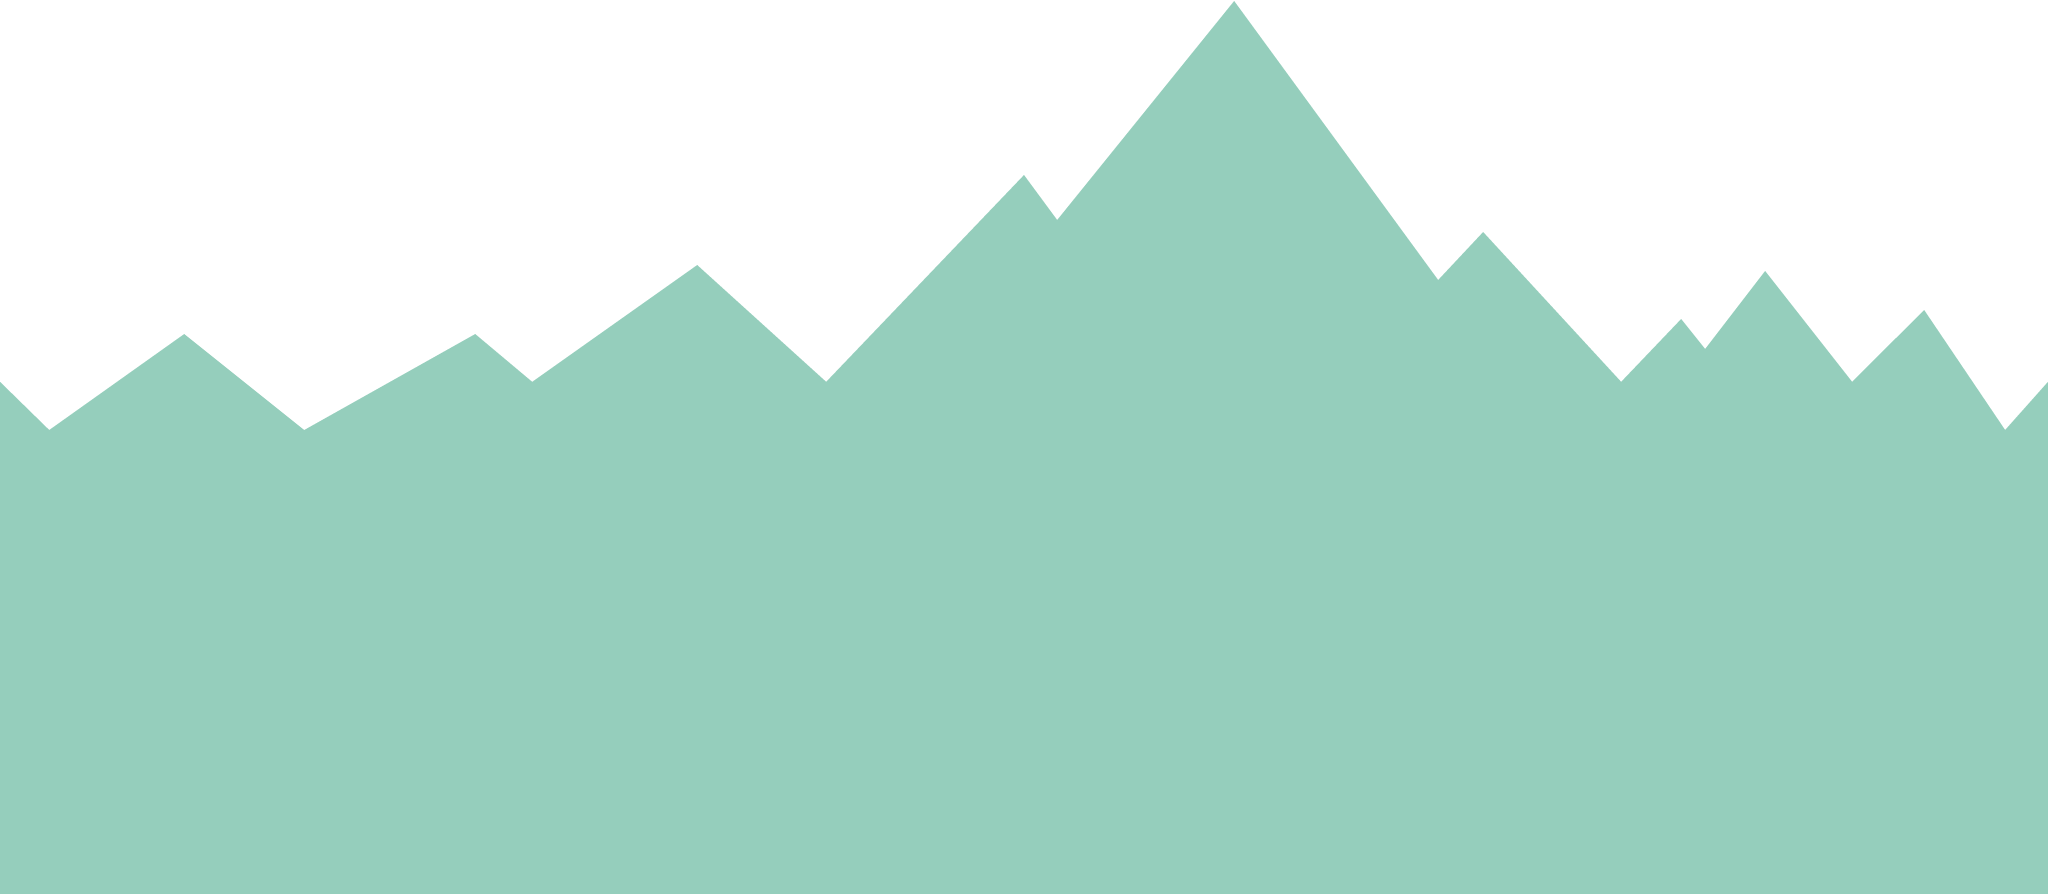
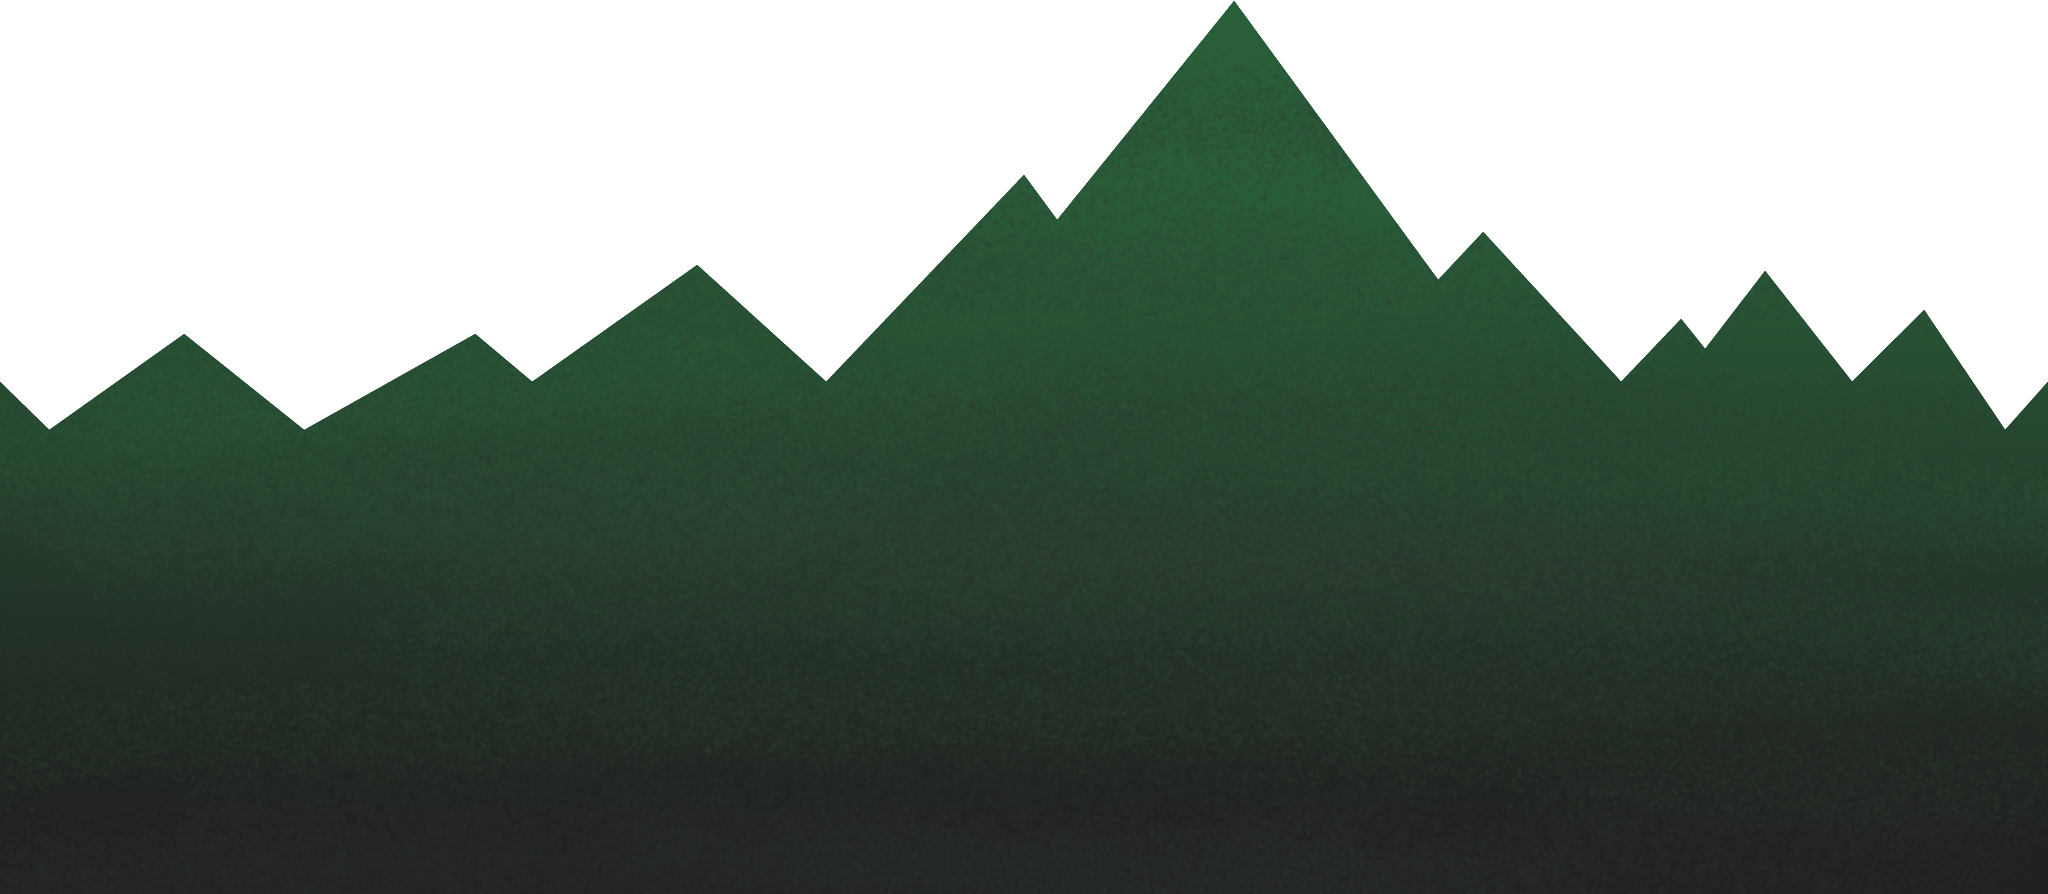
[feat] level complete

diff --git a/src/index.js b/src/index.js
@@ -36,17 +36,25 @@ export const gameContent = {
 let ost;
 let gameOverSound;
 let isGameOverSound = false;
+let isReady = false;
 
 function preload() {
   gameContent.scene = this;
   const { scene, cursor } = gameContent;
 
+  scene.load.image('sky', 'assets/images/sky.jpg');
   scene.load.image('mountains-back', 'assets/images/mountains-back.png');
 	scene.load.image('mountains-mid1', 'assets/images/mountains-mid1.png');
   scene.load.image('mountains-mid2', 'assets/images/mountains-mid2.png');
     
   scene.load.image('tiles', '../assets/images/tilesheet.png');
   scene.load.image('items', '../assets/images/items.png');
+  scene.load.image('emerald', '../assets/images/emerald.png');
+
+  scene.load.image('start', '../assets/images/start.png');
+  scene.load.image('dead', '../assets/images/dead.png');
+  scene.load.image('win', '../assets/images/win.png');
+
   scene.load.image('parchment', '../assets/images/parchment.png');
   scene.load.image('restart', '../assets/images/restart.png');
 
@@ -69,18 +77,19 @@ function preload() {
   world.score = 0;
   isGameOverSound = false;
   gameOverSound = null;
+  isReady = false;
 }
 
 function create() {
   const { scene, player, enemy, world } = gameContent;
 
   world.initMap(scene);
-
-  ost = this.sound.add('OST');
-  ost.play({
-    loop: true,
-    volume: 0.4  
-  });
+  
+  // ost = this.sound.add('OST');
+  // ost.play({
+  //   loop: true,
+  //   volume: 0.4  
+  // });
 
   function randomIntFromInterval(min, max) {  
     return Math.floor(Math.random() * (max - min + 1) + min);
@@ -106,32 +115,37 @@ function create() {
   gameContent.cursor = scene.input.keyboard.createCursorKeys();
 
   world.handleCamera(scene, player);
+
+  startPanel();
 }
 
 function update(time, delta) {
-  const { player, cursor } = gameContent;
+  const { player, cursor, world } = gameContent;
 
-  if(world.gameOver) {
-    ost.stop();
-
-    if(player.isAHero && !isGameOverSound) {
-      gameOverSound = this.sound.add('win');
-      gameOverSound.play({
-        volume: 0.4  
-      });
-      isGameOverSound = true;
+  if(isReady) {
+    if(world.gameOver) {
+      ost.stop();
+  
+      if(player.isAHero && !isGameOverSound) {
+        gameOverSound = this.sound.add('win');
+        gameOverSound.play({
+          volume: 0.4  
+        });
+        isGameOverSound = true;
+      }
+  
+      if(!player.isAlive && !isGameOverSound) {
+        gameOverSound = this.sound.add('death');
+        gameOverSound.play({
+          volume: 0.4  
+        });
+        isGameOverSound = true;
+      }
     }
-
-    if(!player.isAlive && !isGameOverSound) {
-      gameOverSound = this.sound.add('death');
-      gameOverSound.play({
-        volume: 0.4  
-      });
-      isGameOverSound = true;
-    }
+  
+    player.moveHero(cursor);
   }
 
-  player.moveHero(cursor);
   handleScreenSize();
 }
 
@@ -150,5 +164,37 @@ function handleScreenSize() {
   } else {
     canvas.style.width = `${winHeight * gameRatio}px`;
     canvas.style.height = `${winHeight}px`;
+  }
+};
+
+function startPanel() {
+  const { midPoint } = gameContent.scene.cameras.main;
+
+  if(!isReady) {
+    let startSprite = gameContent.scene.add.sprite(
+      0,
+      40,
+      "start"
+      ).setOrigin(0, 0);
+
+    let container = gameContent.scene.add.container(50, 50);;
+    container.setPosition(midPoint.x + 450, midPoint.y + 190);
+    const restartButton = gameContent.scene.add.image(0, 0, "restart").setScale(0.12, 0.12).setInteractive({ cursor: 'pointer' });
+    var text = gameContent.scene.add.text(0, 0, 'Start');
+    text.setOrigin(0.5, 0.5);
+    container.add(restartButton);
+    container.add(text);
+
+    restartButton.on("pointerup", function(){
+      startSprite.destroy();
+      container.destroy();
+      isReady = true;
+
+      ost = gameContent.scene.sound.add('OST');
+      ost.play({
+        loop: true,
+        volume: 0.4  
+      });
+    });
   }
 }

diff --git a/src/objects/world.js b/src/objects/world.js
@@ -18,15 +18,21 @@ export const world = {
   scoreText: null,
   worldSound : null,
   gameOver: false,
+  isReady: false,
   initMap(scene) {
     const fontStyle = {
       fontSize: '1.5rem',
-      color: '#b3271d',
+      color: '##220a38',
       fontFamily: 'MedievalSharp',
     };
-    
-    this.scoreText = scene.add.text(20, 20, `Score : ${this.score}`, fontStyle);
-    this.scoreText.setScrollFactor(0);
+  
+
+    this.backgroundImg.back = gameContent
+    .scene
+    .add
+    .sprite(0, 0, "sky")
+    .setOrigin(0, 0)
+    .setScrollFactor(0, 1);
 
     this.backgroundImg.back = gameContent
     .scene
@@ -48,6 +54,10 @@ export const world = {
     .sprite(0, 300, "mountains-mid2")
     .setOrigin(0, 0)
     .setScrollFactor(0.3, 1);
+
+    scene.add.sprite(10, 10, 'emerald').setScrollFactor(0).setOrigin(0, 0);
+    this.scoreText = scene.add.text(40, 15, `${this.score}/5`, fontStyle).setOrigin(0, 0);
+    this.scoreText.setScrollFactor(0);
 
     this.tileMap = scene.make.tilemap({ key: 'map' });
     this.tileSet = this.tileMap.addTilesetImage('tilesheet', 'tiles');
@@ -84,7 +94,6 @@ export const world = {
       scene.physics.add.collider(goblin, this.worldLayer);
     })
 
-
   },
   handleCamera(scene, player) {
     scene.cameras.main.startFollow(player.hero);
@@ -96,7 +105,7 @@ export const world = {
     gameContent.scene.sound.play('gemSound', {volume: 0.2})
     this.overlapLayer.removeTileAt(tile.x, tile.y).destroy();
     this.score += 1;
-    this.scoreText.setText(`Score : ${this.score}`);
+    this.scoreText.setText(`${this.score}/5`);
   },
   killPlayer() {
     this.panel('dead');
@@ -116,23 +125,14 @@ export const world = {
         : gameContent.player.isAHero = true;
 
       setTimeout(function() {
-        gameContent.scene.add.sprite(midPoint.x, midPoint.y, "parchment");
-
-        const fontStyle = {
-          fontSize: '3rem',
-          color: '#5d0000',
-          fontFamily: 'MedievalSharp',
-          align: 'center'
-        };
-
-        gameContent.scene.add.text(
+        gameContent.scene.add.sprite(
           midPoint.x,
-          midPoint.y - 50,
-          `You are \n${status === 'dead' ? 'dead' : 'a hero!'}`,
-          fontStyle).setOrigin(0.5, 0.5)
+          midPoint.y,
+          status === 'dead' ? "dead" : "win"
+          );
 
         let container = gameContent.scene.add.container(50, 50);;
-        container.setPosition(midPoint.x + 45, midPoint.y + 100);
+        container.setPosition(midPoint.x + 70, midPoint.y + 150);
         const restartButton = gameContent.scene.add.image(0, 0, "restart").setScale(0.12, 0.12).setInteractive({ cursor: 'pointer' });
         var text = gameContent.scene.add.text(0, 0, 'Restart');
         text.setOrigin(0.5, 0.5);
@@ -144,5 +144,5 @@ export const world = {
         });
       }, 1000);
     }
-  }
+  }, 
 };
